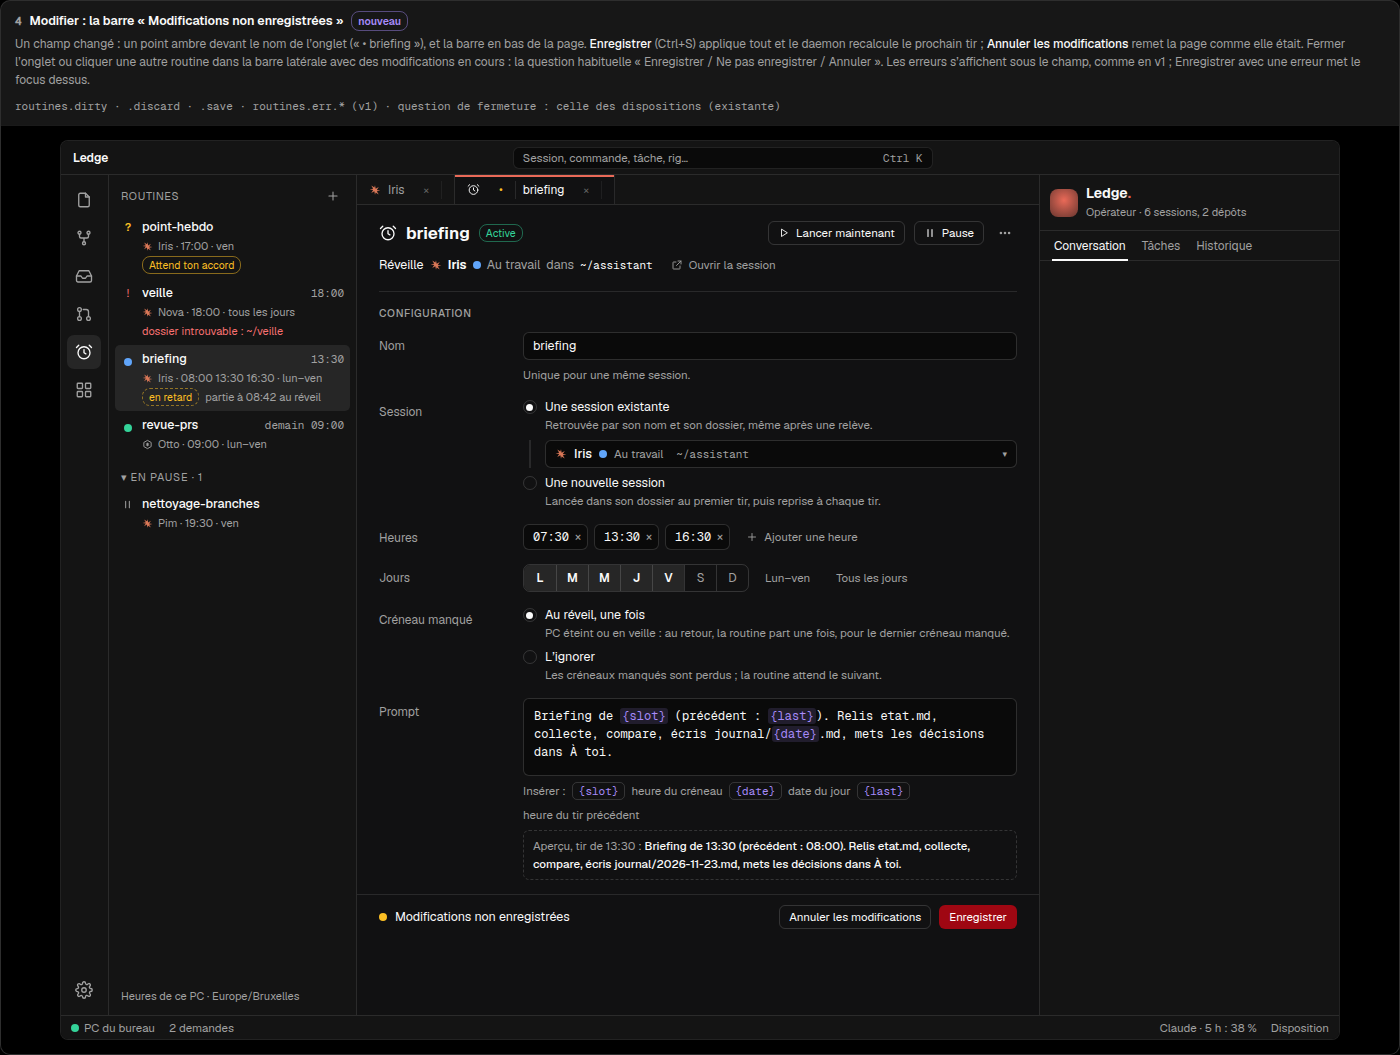
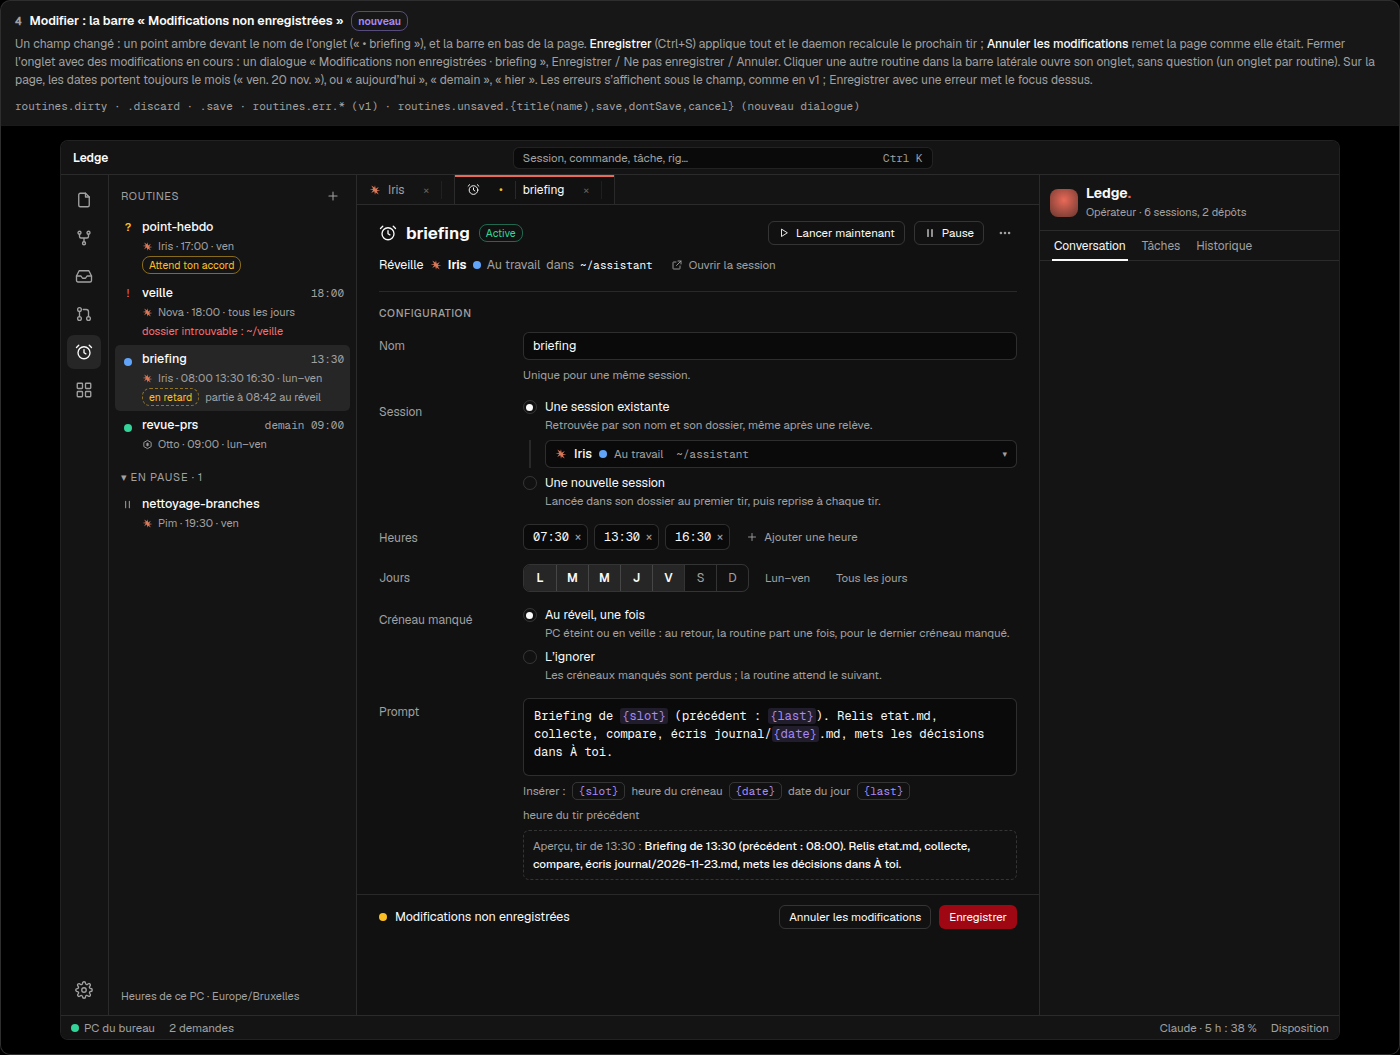
docs(mockups): Routines — three corrections after dev-front's Desktop questions
The IDE has no machine chosen in the title bar: the multi-machine rule waits
for jde. Clicking another routine opens its own tab without a question; only
closing a modified tab asks. Dates on a routine's page always carry the month
(« ven. 20 nov. »), or today / tomorrow / yesterday.

Changed region(s): [[0.0, 0.0303, 0.9829, 0.1213]]

diff --git a/docs/mockups/ledge-routines.html b/docs/mockups/ledge-routines.html
@@ -358,7 +358,7 @@ section.fiche ol{margin:6px 0 0;padding-left:20px}section.fiche li{margin:6px 0}
 const T = {
   fr: {
     h1:'Ledge — Routines', hsub:'v2 validée + ajout (récurrente / unique, deux semaines) · Desktop (IDE de main 756fd2a2), « À toi », « Le point », téléphone, ledge tui',
-    tomorrowDay:'demain (mar.)', wednesday:'mer. 25', saturday:'sam. 21', pickSession:'Choisir une session…', yesterday:'hier', friday:'ven. 20', stEnabled:'Active', stPaused:'En pause', wakes:'Réveille ', inDir:'dans', runs:'Tirs', nextRuns:'Prochains', pastRuns:'Derniers', config:'Configuration',
+    tomorrowDay:'demain', wednesday:'mer. 25 nov.', saturday:'sam. 21 nov.', pickSession:'Choisir une session…', yesterday:'hier', friday:'ven. 20 nov.', stEnabled:'Active', stPaused:'En pause', wakes:'Réveille ', inDir:'dans', runs:'Tirs', nextRuns:'Prochains', pastRuns:'Derniers', config:'Configuration',
     noneUntil:'aucun tant qu’elle n’est pas activée', noneWhilePaused:'aucun tant qu’elle est en pause', dirty:'Modifications non enregistrées', discard:'Annuler les modifications', promptPh:'Ce que Ledge tapera dans la session à chaque tir…',
     pendBanner:(s,h)=>`${s} demande à programmer cette routine (${h}). Elle ne partira qu’une fois activée.`, pendEditHint:'Tu peux la corriger avant de l’activer : Activer enregistre tes modifications.',
     failBanner:(h,why)=>`Le tir de ${h} n’a pas pu partir : ${why}`, failHint:'Corrige le champ entouré ci-dessous, puis relance.', errDirExisting:'Le dossier de cette session n’existe plus sur ce PC.',
@@ -422,7 +422,7 @@ const T = {
   },
   en: {
     h1:'Ledge — Routines', hsub:'v2 approved + addition (recurring / once, two weeks) · Desktop (IDE of main 756fd2a2), “For you”, the point, phone, ledge tui',
-    tomorrowDay:'tomorrow (Tue)', wednesday:'Wed 25', saturday:'Sat 21', pickSession:'Pick a session…', yesterday:'yesterday', friday:'Fri 20', stEnabled:'Active', stPaused:'Paused', wakes:'Wakes ', inDir:'in', runs:'Runs', nextRuns:'Next', pastRuns:'Recent', config:'Settings',
+    tomorrowDay:'tomorrow', wednesday:'Wed 25 Nov', saturday:'Sat 21 Nov', pickSession:'Pick a session…', yesterday:'yesterday', friday:'Fri 20 Nov', stEnabled:'Active', stPaused:'Paused', wakes:'Wakes ', inDir:'in', runs:'Runs', nextRuns:'Next', pastRuns:'Recent', config:'Settings',
     noneUntil:'none until it’s activated', noneWhilePaused:'none while paused', dirty:'Unsaved changes', discard:'Discard changes', promptPh:'What Ledge will type into the session at each run…',
     pendBanner:(s,h)=>`${s} asks to schedule this routine (${h}). It won’t run until it’s activated.`, pendEditHint:'You can correct it before activating: Activate saves your changes.',
     failBanner:(h,why)=>`The ${h} run could not start: ${why}`, failHint:'Fix the outlined field below, then run it again.', errDirExisting:'This session’s folder no longer exists on this PC.',
@@ -652,8 +652,8 @@ function cards(){
     scene: `<div class="paneframe">${rpage(brief)}</div>`});
 
   C.push({tag:'new', title:'Modifier : la barre « Modifications non enregistrées »', wide:true,
-    why:'Un champ changé : un point ambre devant le nom de l’onglet (« • briefing »), et la barre en bas de la page. <b>Enregistrer</b> (Ctrl+S) applique tout et le daemon recalcule le prochain tir ; <b>Annuler les modifications</b> remet la page comme elle était. Fermer l’onglet ou cliquer une autre routine dans la barre latérale avec des modifications en cours : la question habituelle « Enregistrer / Ne pas enregistrer / Annuler ». Les erreurs s’affichent sous le champ, comme en v1 ; Enregistrer avec une erreur met le focus dessus.',
-    keys:'routines.dirty · .discard · .save · routines.err.* (v1) · question de fermeture : celle des dispositions (existante)',
+    why:'Un champ changé : un point ambre devant le nom de l’onglet (« • briefing »), et la barre en bas de la page. <b>Enregistrer</b> (Ctrl+S) applique tout et le daemon recalcule le prochain tir ; <b>Annuler les modifications</b> remet la page comme elle était. Fermer l’onglet avec des modifications en cours : un dialogue « Modifications non enregistrées · briefing », Enregistrer / Ne pas enregistrer / Annuler. Cliquer une autre routine dans la barre latérale ouvre son onglet, sans question (un onglet par routine). Sur la page, les dates portent toujours le mois (« ven. 20 nov. »), ou « aujourd’hui », « demain », « hier ». Les erreurs s’affichent sous le champ, comme en v1 ; Enregistrer avec une erreur met le focus dessus.',
+    keys:'routines.dirty · .discard · .save · routines.err.* (v1) · routines.unsaved.{title(name),save,dontSave,cancel} (nouveau dialogue)',
     scene: ide(rpage(brief, {dirty:true, noRuns:true, form:{times:['07:30','13:30','16:30']}}), {side:rside({sel:'briefing'}), tabs:[['Iris',''],['• briefing','on']], tall:true})});
 
   C.push({tag:'new', title:'Nouvelle routine : la même page, vide', wide:true,
@@ -690,7 +690,7 @@ function cards(){
     scene: `<div class="paneframe" style="max-height:330px;overflow:hidden">${rpage(revue, {banner: bannerBox('bad', x.delQ('revue-prs'), x.delWhy('Otto'), `<button class="btn">${x.cancel}</button><button class="btn dangerfill">${x.delGo}</button>`), noRuns:true, form:{name:'revue-prs', times:['09:00'], s:'Otto', tool:'codex', st:'idle', stTxt:x.st.idle, dir:'~/Workspace/ledge'}})}</div>`});
 
   C.push({tag:'new', title:'États : vide, connexion, daemon hors ligne', wide:true,
-    why:'<b>Vide</b> : dans la barre latérale, une phrase qui dit ce qu’est une routine et le bouton <b>Nouvelle routine</b> ; l’éditeur garde ce qu’il montrait. <b>Connexion</b> : une ligne, pas de squelette. <b>Daemon hors ligne</b> : un bandeau en tête de la barre latérale (« rien ne part »), la liste estompée ; les pages ouvertes restent lisibles, leurs boutons et Enregistrer désactivés. <b>Plusieurs machines</b> : les routines de la machine choisie dans la barre de titre, comme le reste de l’IDE. <b>Beaucoup de routines</b> : la barre latérale défile.',
+    why:'<b>Vide</b> : dans la barre latérale, une phrase qui dit ce qu’est une routine et le bouton <b>Nouvelle routine</b> ; l’éditeur garde ce qu’il montrait. <b>Connexion</b> : une ligne, pas de squelette. <b>Daemon hors ligne</b> : un bandeau en tête de la barre latérale (« rien ne part »), la liste estompée ; les pages ouvertes restent lisibles, leurs boutons et Enregistrer désactivés. <b>Plusieurs machines</b> : l’IDE n’a pas de machine choisie dans la barre de titre ; règle en attente de jde (proposition : un titre par machine dans la barre latérale, comme la TUI, carte 27). <b>Beaucoup de routines</b> : la barre latérale défile.',
     keys:'routines.empty.{title,side} · routines.connecting · routines.offlineShort',
     scene: `${rside({empty:true})}${rside({connecting:true})}${rside({offline:true})}`});
 
